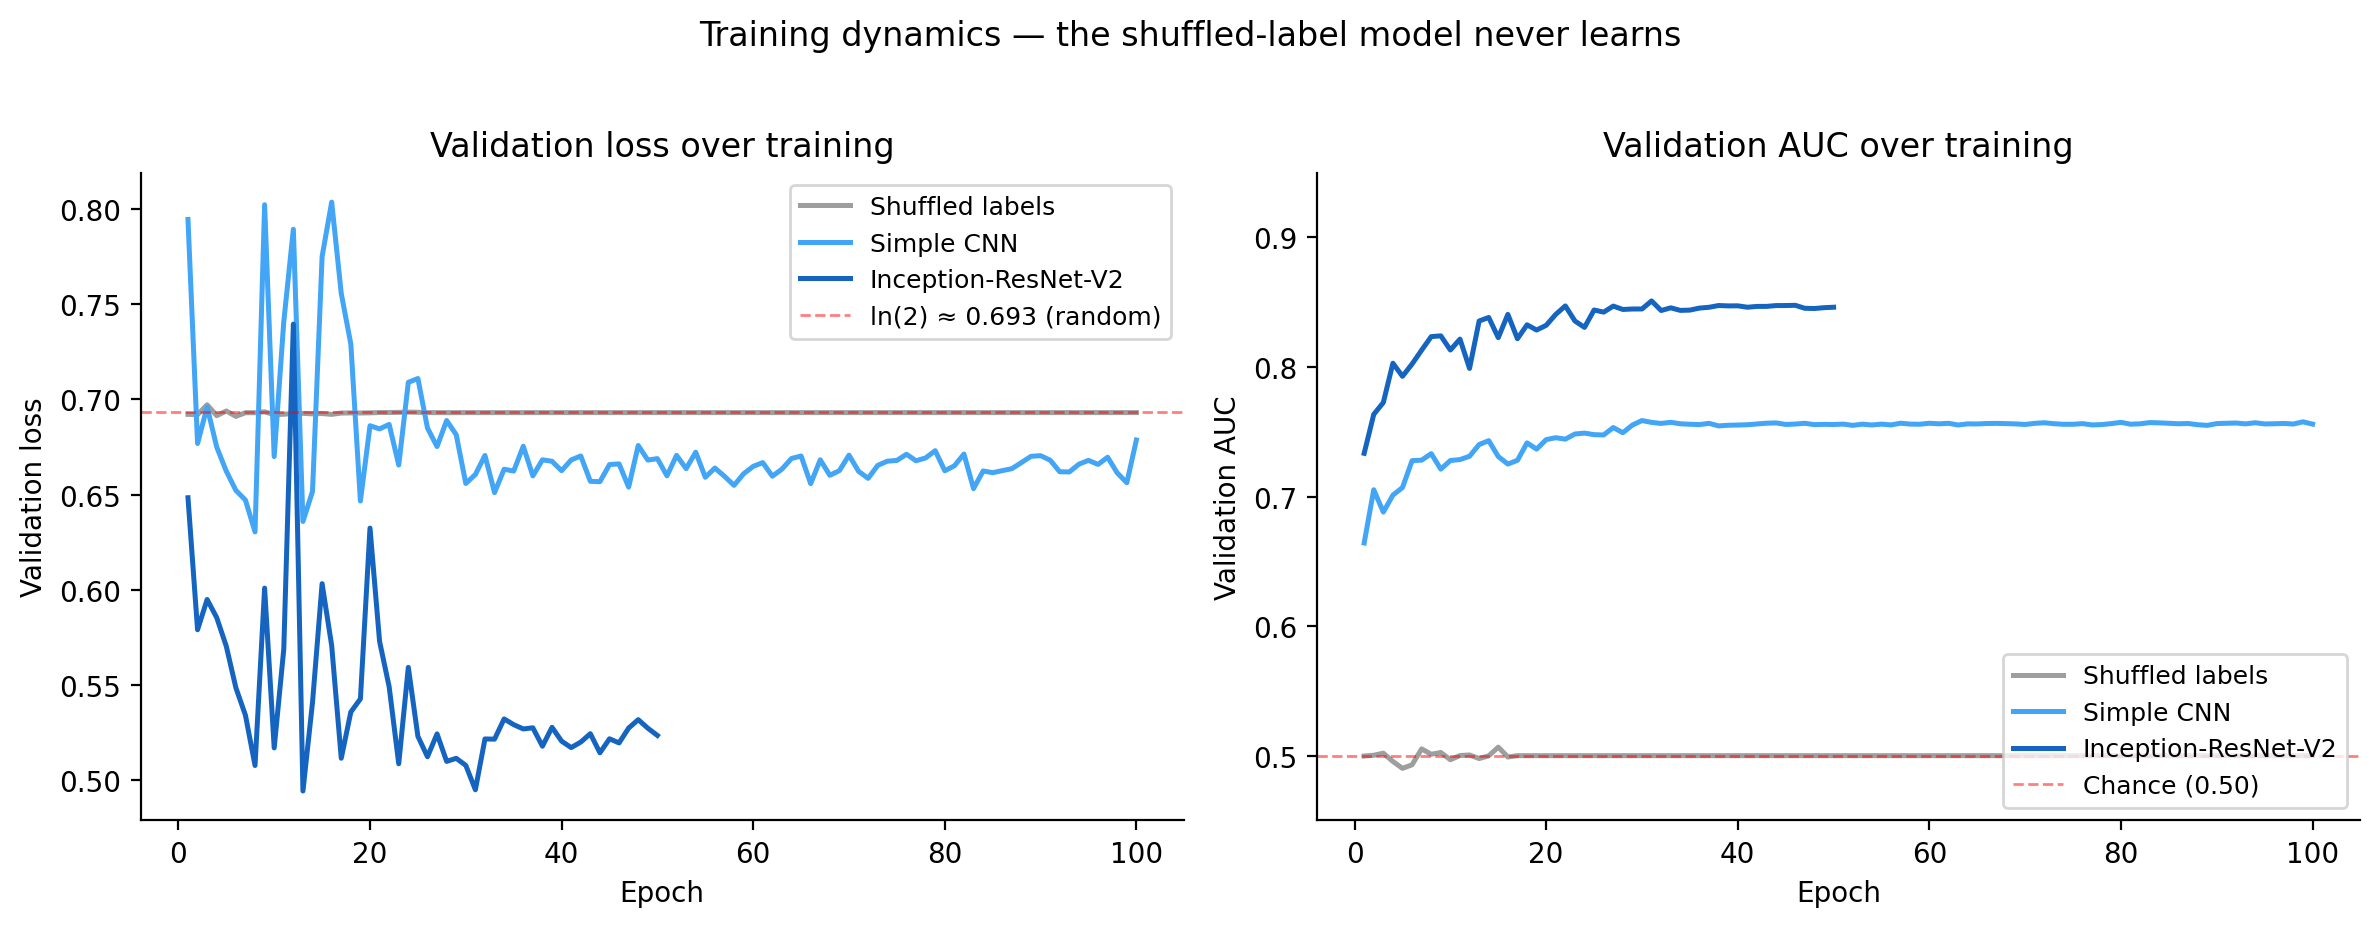
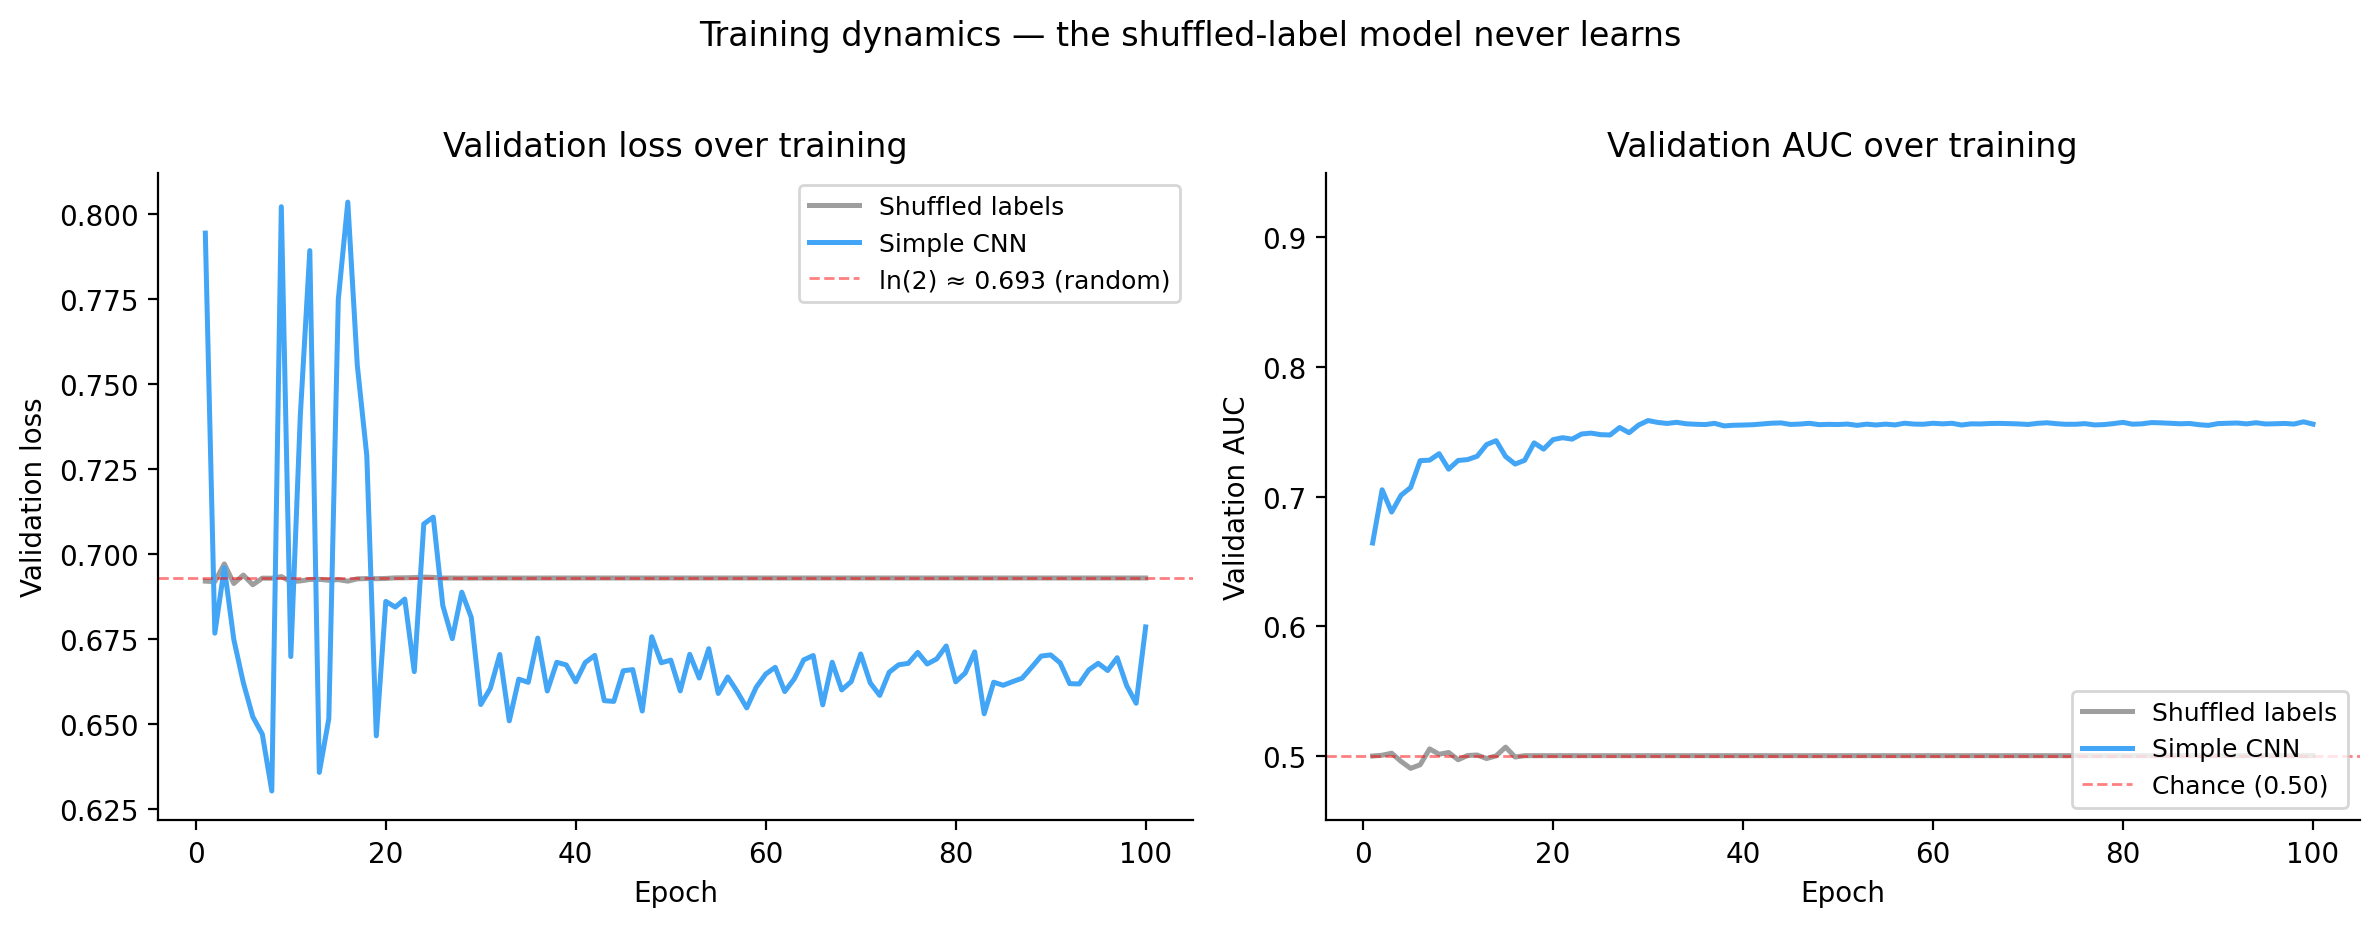
Remove Inception-ResNet-V2 from training-curves figure
The reported pretrained model was trained for 50 epochs, so plotting it
alongside the 100-epoch shuffled/simple CNN runs looked like early stopping.
Its pretrained features also start far from random, so training dynamics
aren't like-for-like with from-scratch models.

Figure 2 now shows only shuffled labels vs. simple CNN — both 100 epochs,
both random init, directly comparable. The pretrained model's final AUC is
still shown in Figure 1.

diff --git a/4_evaluation/plot_rebuttal_figures.py b/4_evaluation/plot_rebuttal_figures.py
@@ -98,19 +98,25 @@ def _find_run_dir(base):
 
 
 def fig2_training_curves():
-    """Two-panel figure: loss (left), validation AUC (right) for three models."""
+    """Two-panel figure: loss (left), validation AUC (right).
+
+    Only compares the shuffled-label control with the simple CNN trained from
+    scratch — both run for the same 100 epochs with the same hyperparameters,
+    so the dynamics are directly comparable. The Inception-ResNet-V2 model
+    is deliberately excluded here because (a) the reported run used a
+    different (50-epoch) schedule and (b) its ImageNet-pretrained features
+    start far from random, making the training dynamics not like-for-like.
+    Final test AUC of the pretrained model is shown in Figure 1 instead.
+    """
     shuffled_dir = _find_run_dir(RESULTS_DIR / 'ablation' / 'shuffled_labels')
     simple_dir   = _find_run_dir(RESULTS_DIR / 'ablation' / 'simple_cnn')
-    main_dir     = RESULTS_DIR / 'example'
 
     shuffled_loss, shuffled_auc = _load_history(shuffled_dir)
     simple_loss,   simple_auc   = _load_history(simple_dir)
-    main_loss,     main_auc     = _load_history(main_dir)
 
     models = [
-        ('Shuffled labels',      shuffled_loss, shuffled_auc, '#9e9e9e'),
-        ('Simple CNN',            simple_loss,   simple_auc,   '#42a5f5'),
-        ('Inception-ResNet-V2',  main_loss,     main_auc,     '#1565c0'),
+        ('Shuffled labels',  shuffled_loss, shuffled_auc, '#9e9e9e'),
+        ('Simple CNN',        simple_loss,   simple_auc,   '#42a5f5'),
     ]
 
     fig, (ax_loss, ax_auc) = plt.subplots(1, 2, figsize=(12, 4.5))

diff --git a/ABLATION_WORK_LOG.md b/ABLATION_WORK_LOG.md
@@ -143,7 +143,7 @@ Retrieved results (checkpoints, training curves, config JSON) from pod to local 
 Standalone script that generates three figures for the rebuttal letter, reading entirely from already-saved experiment outputs (no retraining):
 
 1. **`fig1_ablation_auc.png` / `.pdf`** — Horizontal bar chart of test AUC for all four models (shuffled 0.50, texture 0.71, simple CNN 0.76, Inception-ResNet-V2 0.84) with a chance-level reference line.
-2. **`fig2_training_curves.png` / `.pdf`** — Two-panel figure (validation loss + validation AUC) showing training dynamics of shuffled labels vs. simple CNN vs. main CNN. Visually demonstrates that the shuffled-label model never learns.
+2. **`fig2_training_curves.png` / `.pdf`** — Two-panel figure (validation loss + validation AUC) comparing shuffled labels vs. simple CNN, both on the same 100-epoch schedule from random init. Inception-ResNet-V2 is deliberately excluded here because the reported run used a 50-epoch schedule and its pretrained features start far from random, making the training dynamics not like-for-like. The final AUC of the pretrained model is shown in Figure 1.
 3. **`fig3_texture_features.png` / `.pdf`** — 2×3 grid showing an example Inside and Outside patch alongside their LBP image and GLCM matrix. Makes the classical baseline tangible for the reviewer.
 
 Saved to `5_results/ablation/rebuttal_figures/`. Runs on CPU in seconds.